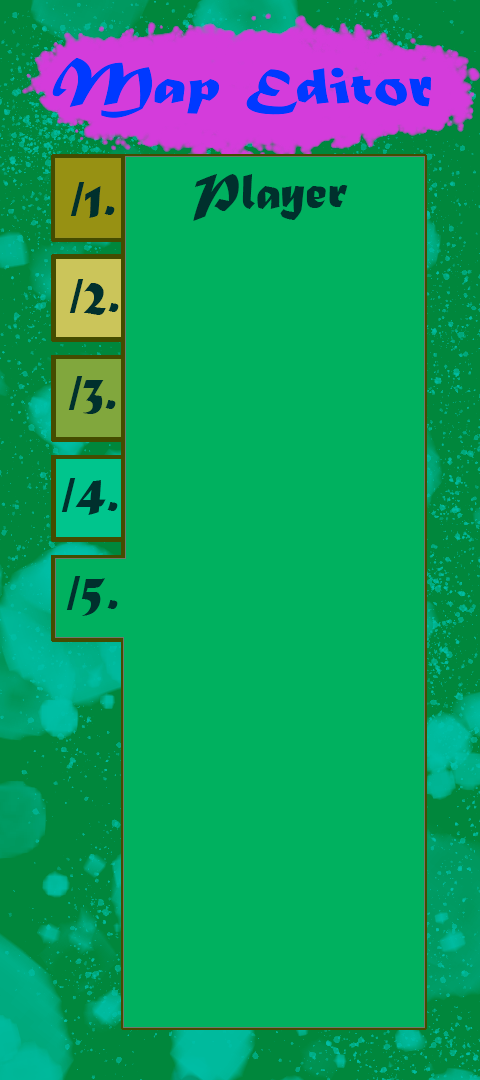
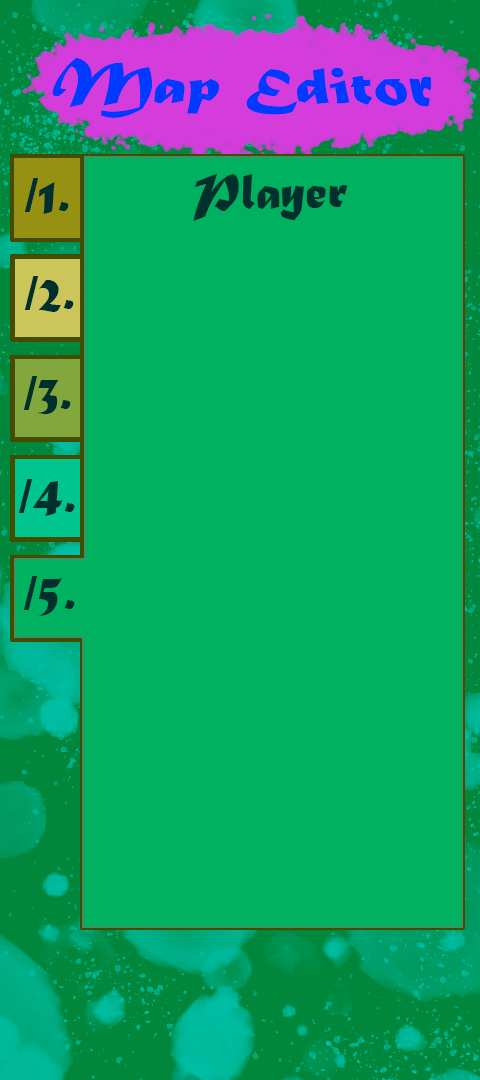
Update texture

Changed region(s): [[0.0, 0.1222, 0.9688, 0.9778]]

diff --git a/ToxiMan/ArchtectMenu.cpp b/ToxiMan/ArchtectMenu.cpp
@@ -37,28 +37,33 @@ ArchtectMenu::ArchtectMenu(Map& map,GameSettings& game_settings, ArcitectVector&
 
 	System::resources.texture.LoadMapEditor();
 
+	//1
+	m_Map = System::CreateShape(PozMenu, SizeMenu, System::resources.texture.menu_Map);
+	m_MapLoad = System::CreateShape(PozMenu, SizeMenu, System::resources.texture.menu_MapLoad);
+	m_MapSize = System::CreateShape(PozMenu, SizeMenu, System::resources.texture.menu_MapSize);
+
 	m_Enemy = System::CreateShape(PozMenu,SizeMenu, System::resources.texture.menu_Enemy);
-	m_Platforms = System::CreateShape(PozMenu, SizeMenu, System::resources.texture.menu_Platforms);;
-	m_Player = System::CreateShape(PozMenu, SizeMenu, System::resources.texture.menu_Player);;
-	m_SizeMap = System::CreateShape(PozMenu, SizeMenu, System::resources.texture.menu_SizeMap);;
-	m_StaticCube = System::CreateShape(PozMenu, SizeMenu, System::resources.texture.menu_StaticCube);;
+	m_Platforms = System::CreateShape(PozMenu, SizeMenu, System::resources.texture.menu_Platforms);
+	m_Player = System::CreateShape(PozMenu, SizeMenu, System::resources.texture.menu_Player);
+
+	m_StaticCube = System::CreateShape(PozMenu, SizeMenu, System::resources.texture.menu_StaticCube);
 
 	//55 158   120 238   65 80
 	MP_Buttons.push_back(make_unique<UI::Button>(System::CreateShape(
 		v2f(
-			m_menu.getPosition().x - (static_cast<float>(System::scr_w) / 8.0f) + 55 + 32, 
+			m_menu.getPosition().x - (static_cast<float>(System::scr_w) / 8.0f) + 15 + 32, 
 			m_menu.getPosition().y - (static_cast<float>(System::scr_h) / 2.0f) + 158 + 40
 		),
 		v2f(65, 80),
 		System::resources.texture.menu_button),
-		"SizeMap",
+		"Map",
 		game_settings)
 	);
 
 	//55 258   120 338   65 80
 	MP_Buttons.push_back(make_unique<UI::Button>(System::CreateShape(
 		v2f(
-			m_menu.getPosition().x - (static_cast<float>(System::scr_w) / 8.0f) + 55 + 32,
+			m_menu.getPosition().x - (static_cast<float>(System::scr_w) / 8.0f) + 15 + 32,
 			m_menu.getPosition().y - (static_cast<float>(System::scr_h) / 2.0f) + 158 + 40 + 100
 		),
 		v2f(65, 80),
@@ -70,7 +75,7 @@ ArchtectMenu::ArchtectMenu(Map& map,GameSettings& game_settings, ArcitectVector&
 	//55 258   120 338   65 80
 	MP_Buttons.push_back(make_unique<UI::Button>(System::CreateShape(
 		v2f(
-			m_menu.getPosition().x - (static_cast<float>(System::scr_w) / 8.0f) + 55 + 32,
+			m_menu.getPosition().x - (static_cast<float>(System::scr_w) / 8.0f) + 15 + 32,
 			m_menu.getPosition().y - (static_cast<float>(System::scr_h) / 2.0f) + 158 + 40 + 200
 		),
 		v2f(65, 80),
@@ -82,7 +87,7 @@ ArchtectMenu::ArchtectMenu(Map& map,GameSettings& game_settings, ArcitectVector&
 	//55 258   120 338   65 80
 	MP_Buttons.push_back(make_unique<UI::Button>(System::CreateShape(
 		v2f(
-			m_menu.getPosition().x - (static_cast<float>(System::scr_w) / 8.0f) + 55 + 32,
+			m_menu.getPosition().x - (static_cast<float>(System::scr_w) / 8.0f) + 15 + 32,
 			m_menu.getPosition().y - (static_cast<float>(System::scr_h) / 2.0f) + 158 + 40 + 300
 		),
 		v2f(65, 80),
@@ -94,7 +99,7 @@ ArchtectMenu::ArchtectMenu(Map& map,GameSettings& game_settings, ArcitectVector&
 	//55 258   120 338   65 80
 	MP_Buttons.push_back(make_unique<UI::Button>(System::CreateShape(
 		v2f(
-			m_menu.getPosition().x - (static_cast<float>(System::scr_w) / 8.0f) + 55 + 32,
+			m_menu.getPosition().x - (static_cast<float>(System::scr_w) / 8.0f) + 15 + 32,
 			m_menu.getPosition().y - (static_cast<float>(System::scr_h) / 2.0f) + 158 + 40 + 400
 		),
 		v2f(65, 80),
@@ -241,7 +246,7 @@ void ArchtectMenu::Action(
 	for (auto& button : MP_Buttons)
 	{
 		if (button->IsAction()) {
-			if (button->GetNameId() == "SizeMap") {
+			if (button->GetNameId() == "Map") {
 				MAP_EDITOR = MapEditor::SIZY_MAP;
 				cout << "SizeMap" << endl;
 				cout << to_string((int)MAP_EDITOR) << endl;
@@ -325,28 +330,39 @@ void ArchtectMenu::Draw()
 	{
 	case ArchtectMenu::MapEditor::ENEMY:
 		System::wnd.draw(m_Enemy);
-		//for (auto& button : MP_Buttons)
-		//	button->Draw();
+		for (auto& button : MP_Buttons)
+			button->Draw();
 		break;
 	case ArchtectMenu::MapEditor::PLATFORMS:
 		System::wnd.draw(m_Platforms);
-		//for (auto& button : MP_Buttons)
-		//	button->Draw();
+		for (auto& button : MP_Buttons)
+			button->Draw();
 		break;
 	case ArchtectMenu::MapEditor::PLAYER:
 		System::wnd.draw(m_Player);
-		//for (auto& button : MP_Buttons)
-		//	button->Draw();
+		for (auto& button : MP_Buttons)
+			button->Draw();
 		break;
 	case ArchtectMenu::MapEditor::SIZY_MAP:
-		System::wnd.draw(m_SizeMap);
-		//for (auto& button : MP_Buttons)
-		//	button->Draw();
+		System::wnd.draw(m_Map);
+		switch (Map_Manu)
+		{
+		case ArchtectMenu::MapMenu::LOAD:
+			System::wnd.draw(m_MapLoad);
+			break;
+		case ArchtectMenu::MapMenu::SIZE:
+			System::wnd.draw(m_MapSize);
+			break;
+		default:
+			break;
+		}
+		for (auto& button : MP_Buttons)
+			button->Draw();
 		break;
 	case ArchtectMenu::MapEditor::STATIC_CUBE:
 		System::wnd.draw(m_StaticCube);
-		//for (auto& button : MP_Buttons)
-		//	button->Draw();
+		for (auto& button : MP_Buttons)
+			button->Draw();
 		break;
 	default:
 		break;

diff --git a/ToxiMan/Texture.h b/ToxiMan/Texture.h
@@ -47,10 +47,13 @@ public:
 	PNG menu_skrol_2;
 
 	// Map Editor
+	PNG menu_Map;
+		PNG menu_MapLoad;
+		PNG menu_MapSize;
 	PNG menu_Enemy;
 	PNG menu_Player;
 	PNG menu_Platforms;
-	PNG menu_SizeMap;
+
 	PNG menu_StaticCube;
 
 
@@ -76,9 +79,13 @@ public:
 	// Загрузка для MapEditor
 	void LoadMapEditor()
 	{
+		menu_Map = Load("MapEditor/Map.png");
+		menu_MapLoad = Load("MapEditor/load.png");;
+		menu_MapSize = Load("MapEditor/size.png");;
+
 		menu_Enemy = Load("MapEditor/Enemy.png");
 		menu_Player = Load("MapEditor/Player.png");
-		menu_SizeMap = Load("MapEditor/Size_Map.png");
+
 		menu_StaticCube = Load("MapEditor/Static_Cube.png");
 		menu_Platforms = Load("MapEditor/Platforms.png");
 	}

diff --git a/ToxiMan/ArchtectMenu.h b/ToxiMan/ArchtectMenu.h
@@ -33,10 +33,22 @@ private:
 
 	MapEditor MAP_EDITOR = MapEditor::SIZY_MAP;
 
+	//	1
+	enum class MapMenu : uint {
+		LOAD,
+		SIZE
+	};
+
+	MapMenu Map_Manu = MapMenu::LOAD;
+
+	Shape	m_Map;
+	Shape	m_MapLoad;
+	Shape	m_MapSize;
+
 	Shape	m_Enemy;
 	Shape	m_Platforms;
 	Shape	m_Player;
-	Shape	m_SizeMap;
+
 	Shape	m_StaticCube;
 
 	vector<unique_ptr<UI::Button>> MP_Buttons;
